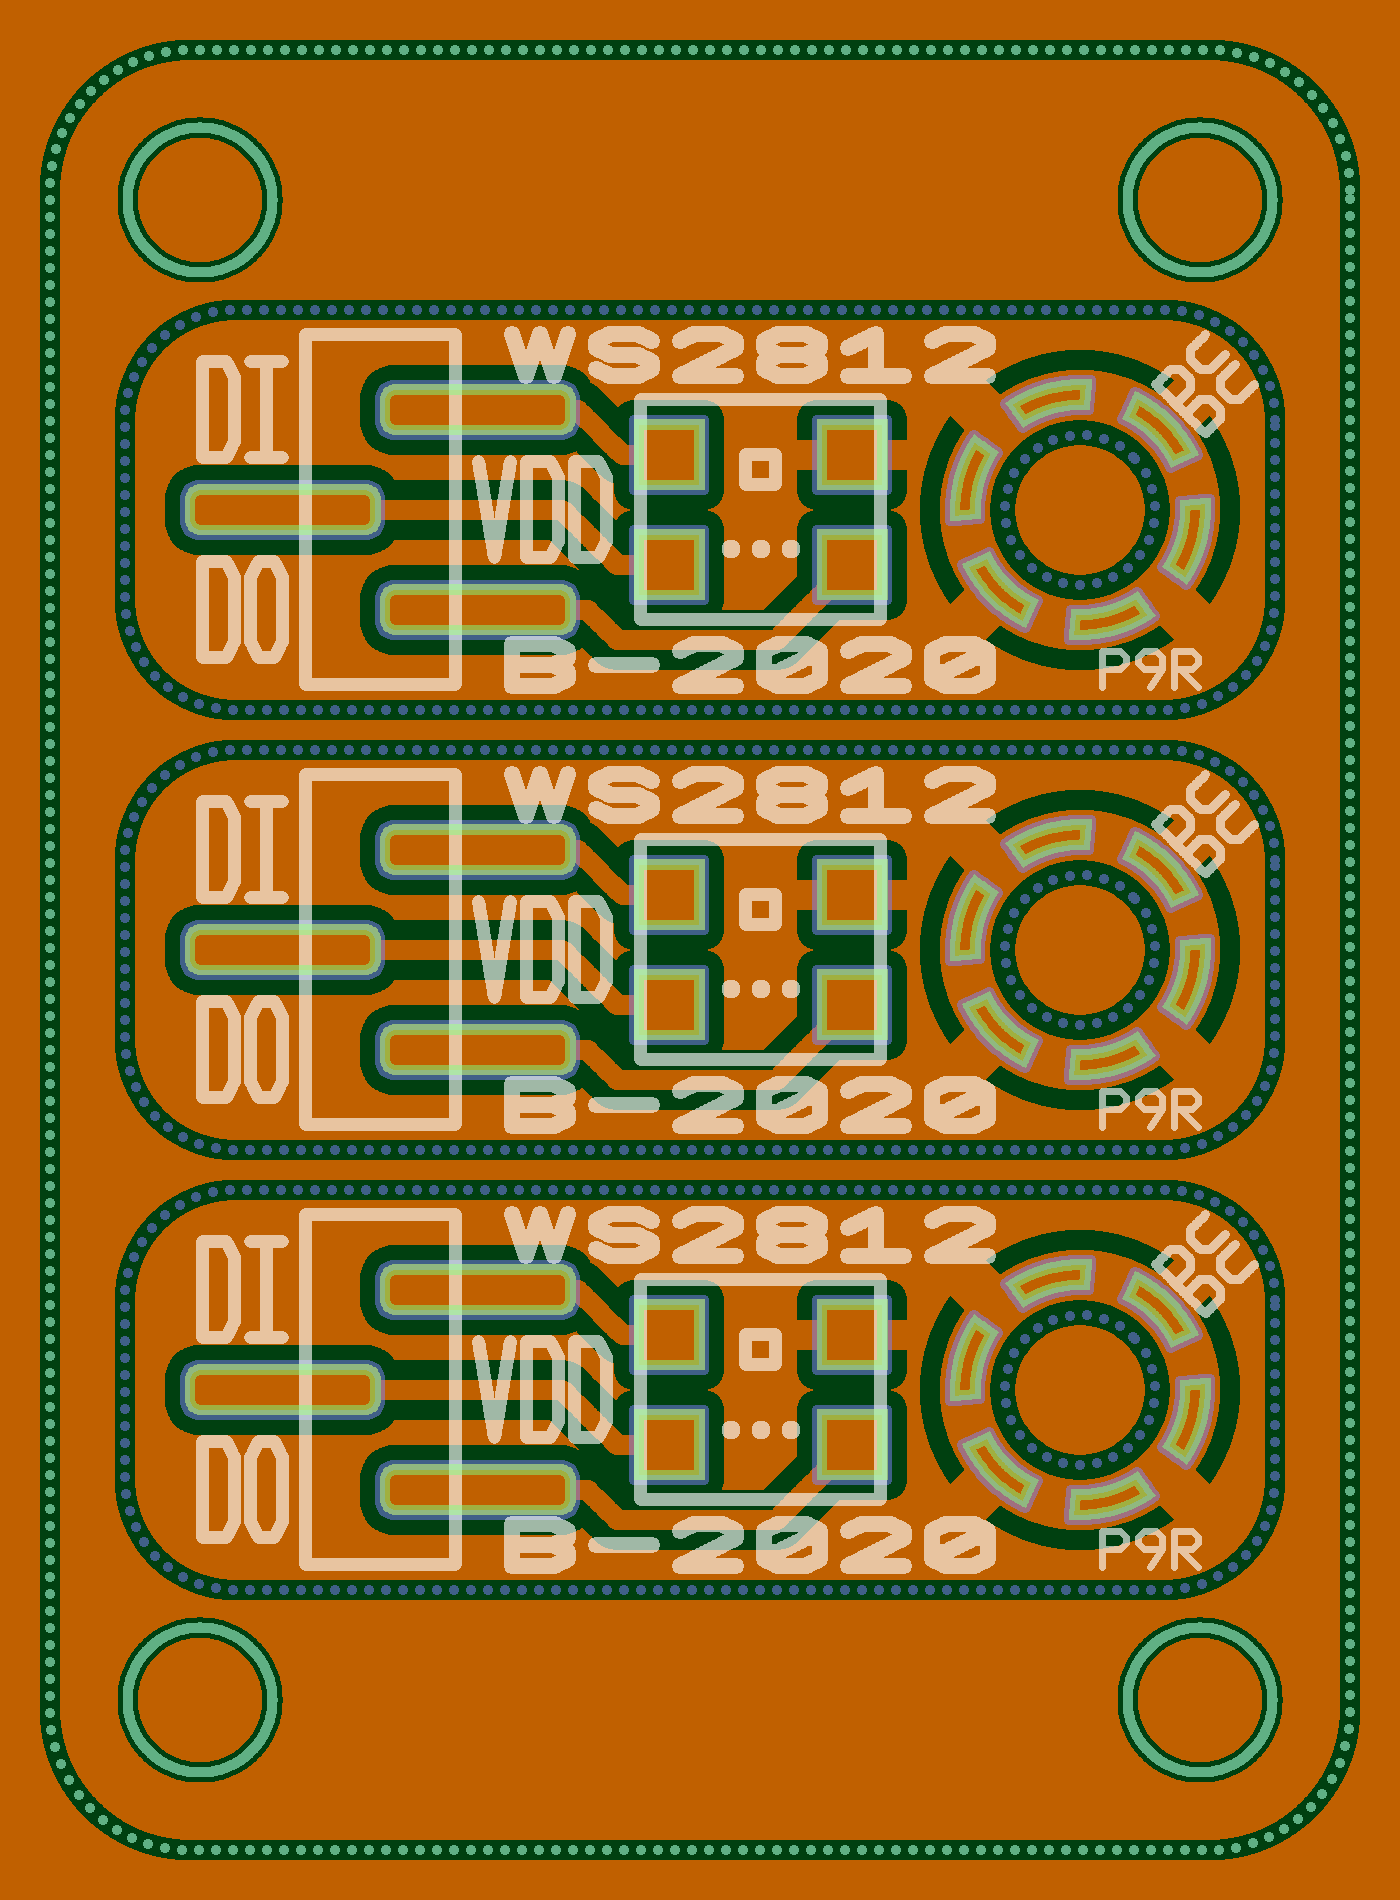
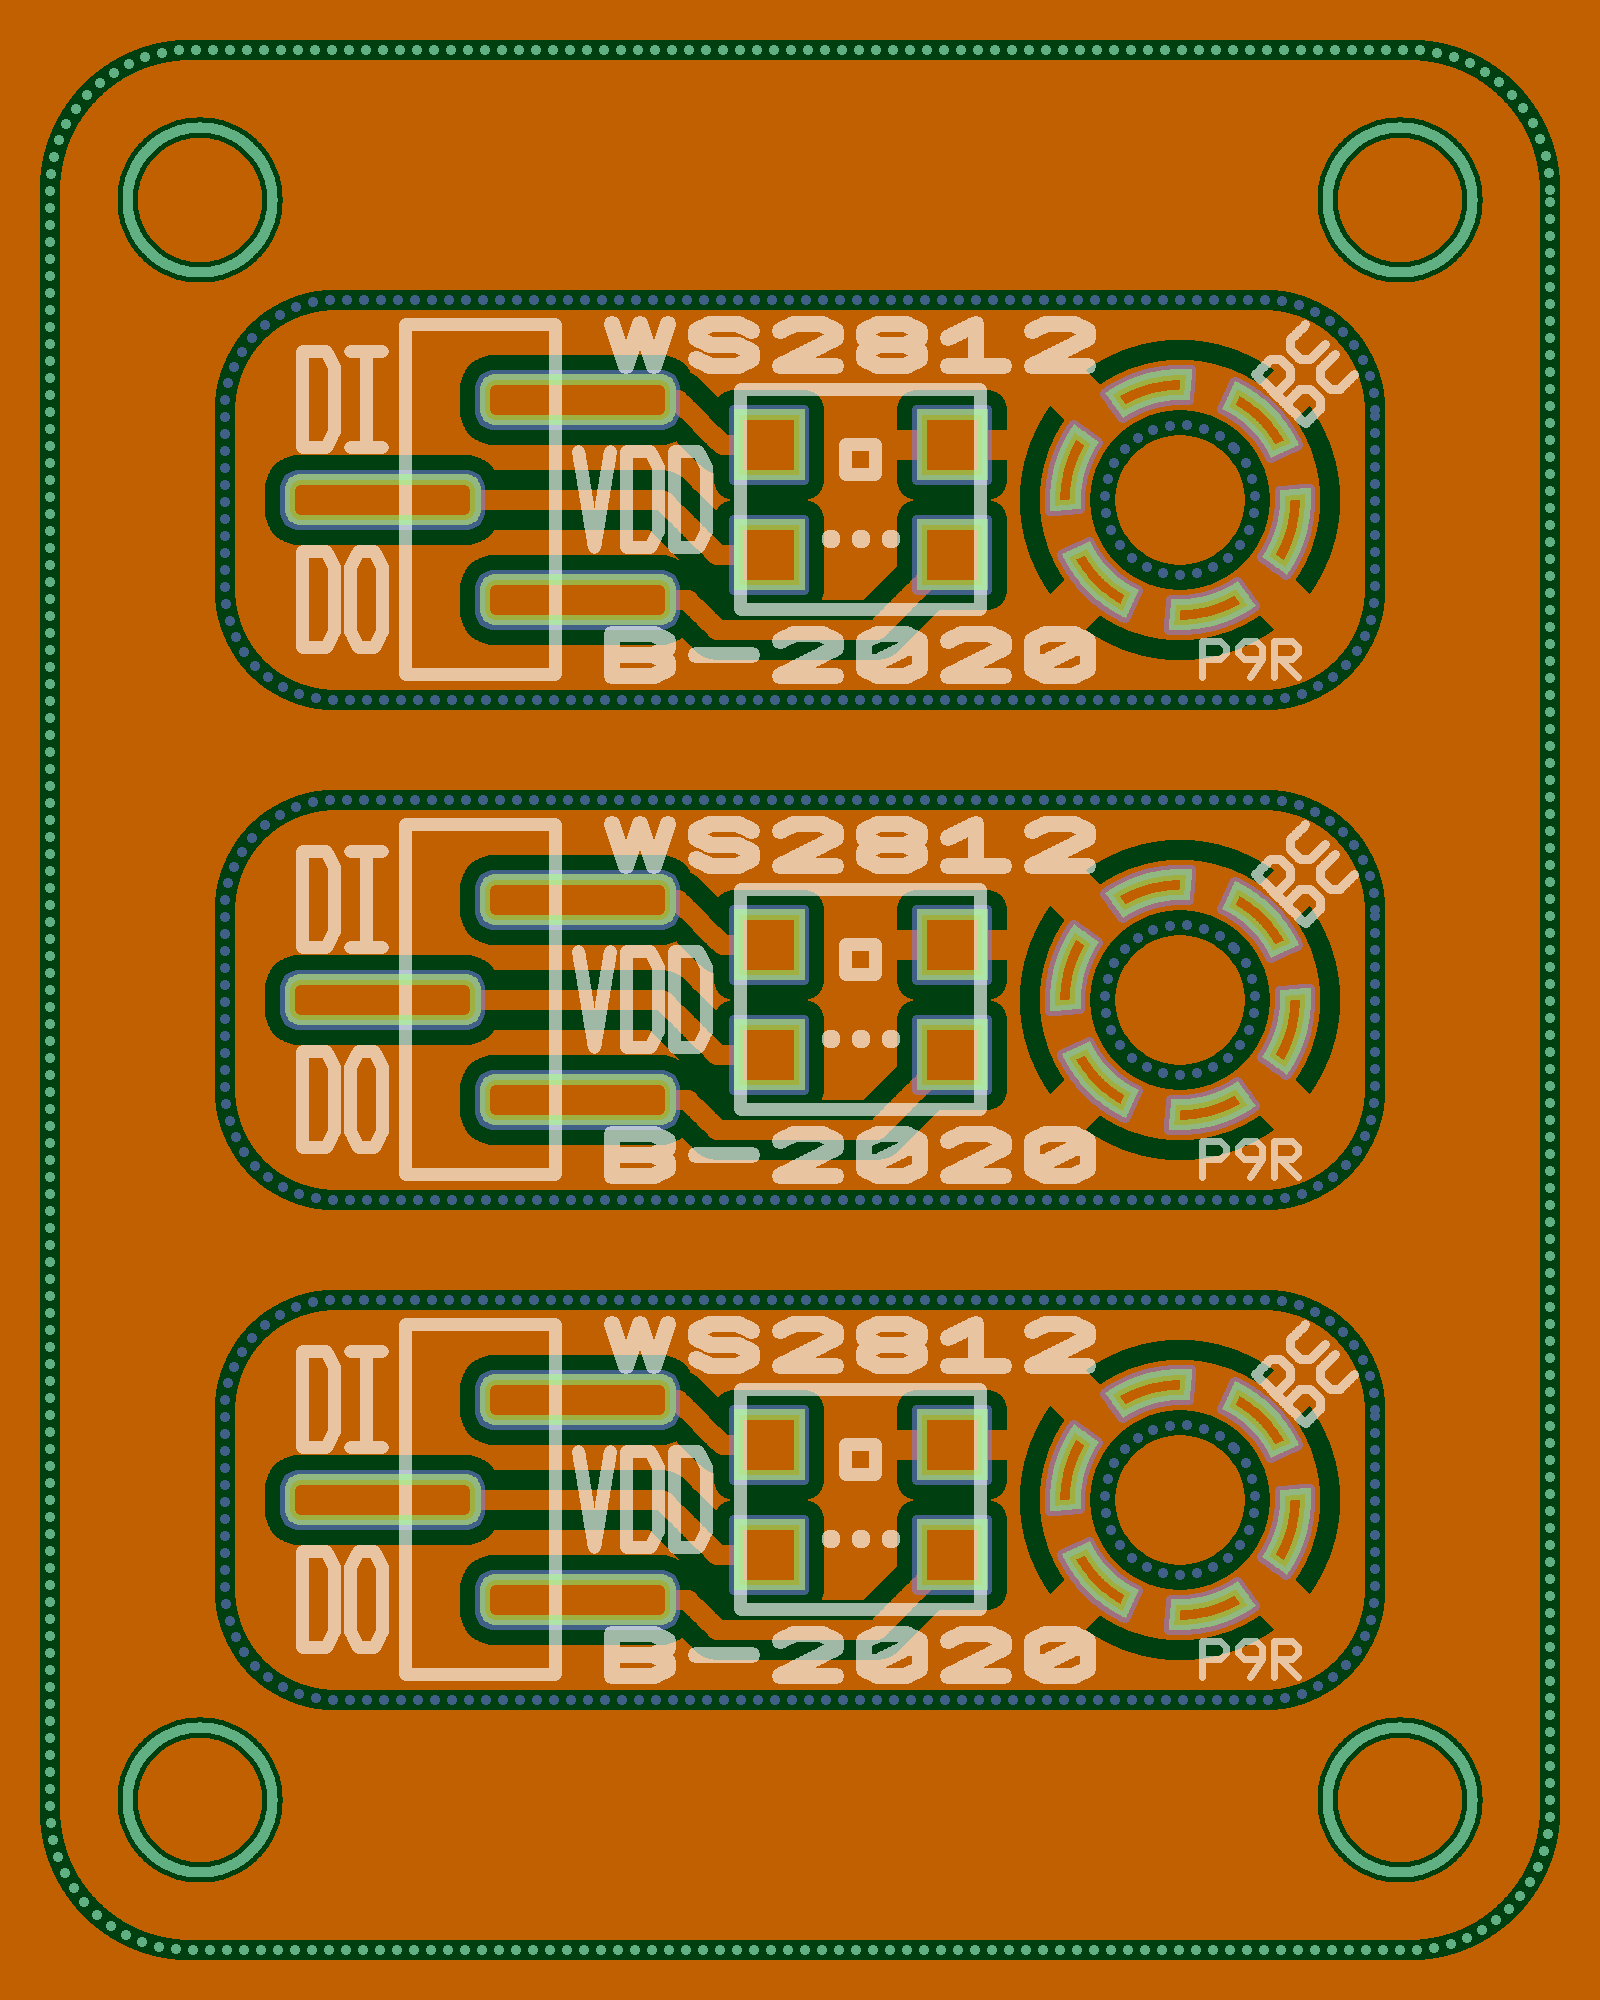
Minor update

diff --git a/eda/boards/led/ws2812b_2020/x3/board_test.go b/eda/boards/led/ws2812b_2020/x3/board_test.go
@@ -14,7 +14,7 @@ import (
 
 func TestBoard(t *testing.T) {
 	conf := config.Default()
-	conf.Width, conf.Height = 14, 19
+	conf.Width, conf.Height = 16, 20
 
 	pcb.Process(conf, &eda.Component{
 		Nested: eda.Components{
@@ -22,13 +22,13 @@ func TestBoard(t *testing.T) {
 				CutsOuter: true,
 
 				Cuts: path.Paths{
-					path.RoundRect(13, 18, 1.4),
+					path.RoundRect(15, 19, 1.4),
 				},
 			},
 
-			boards.AlignHole.CloneX(2, 10).CloneY(2, 15),
+			boards.AlignHole.CloneX(2, 12).CloneY(2, 16),
 
-			ws2812b_2020.Board.CloneY(3, 4.4),
+			ws2812b_2020.Board.CloneY(3, 5),
 		},
 	})
 }

diff --git a/eda/boards/board_35x45.go b/eda/boards/board_35x45.go
@@ -9,14 +9,14 @@ import (
 
 /*
 
-1x1: 44x76
-1x2: 44x36
-1x3: 44x22
-2x2: 20x36
-2x3: 20x22
-2x4: 20x16
-3x3: 12x22
-3x4: 12x16
+1x1: 76x44
+1x2: 36x44
+1x3: 22x44
+2x2: 36x20
+2x3: 22x20
+2x4: 16x20
+3x3: 22x12
+3x4: 16x12
 3x5: 12x12
 
 */
